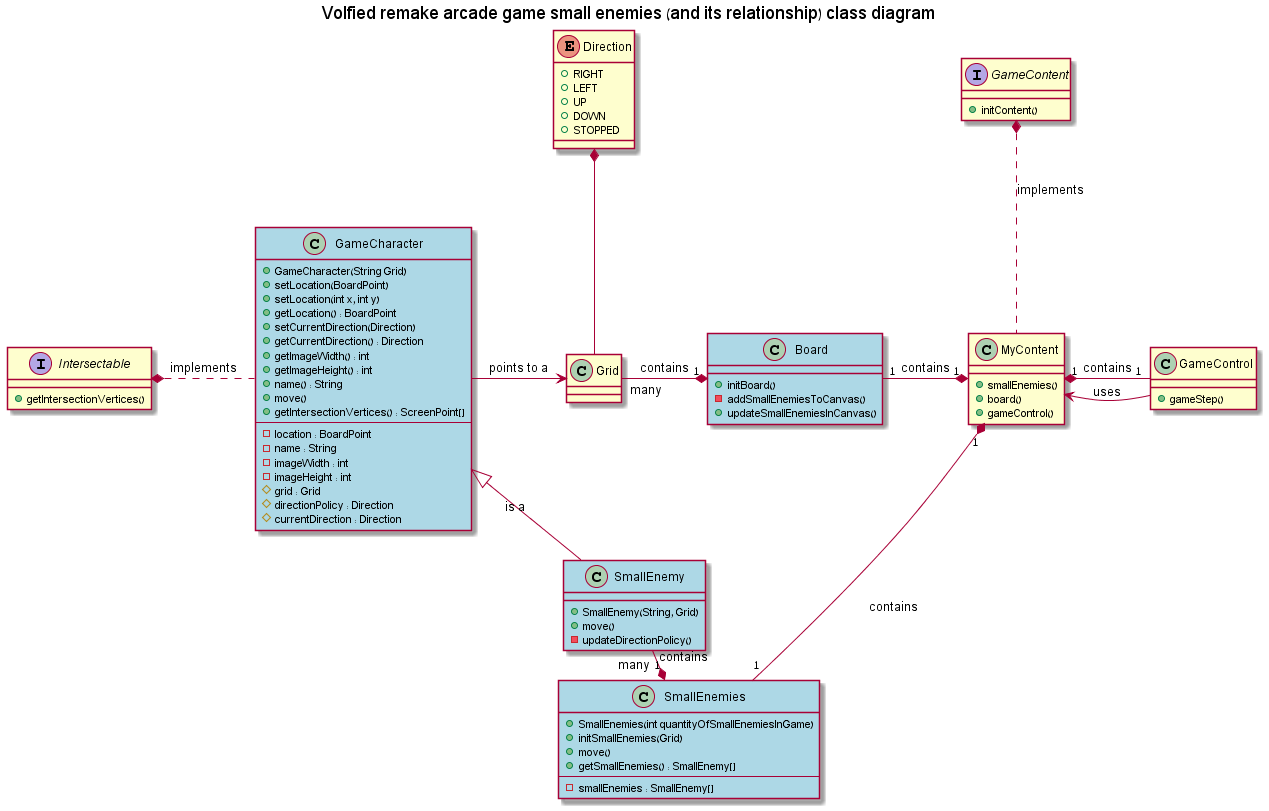
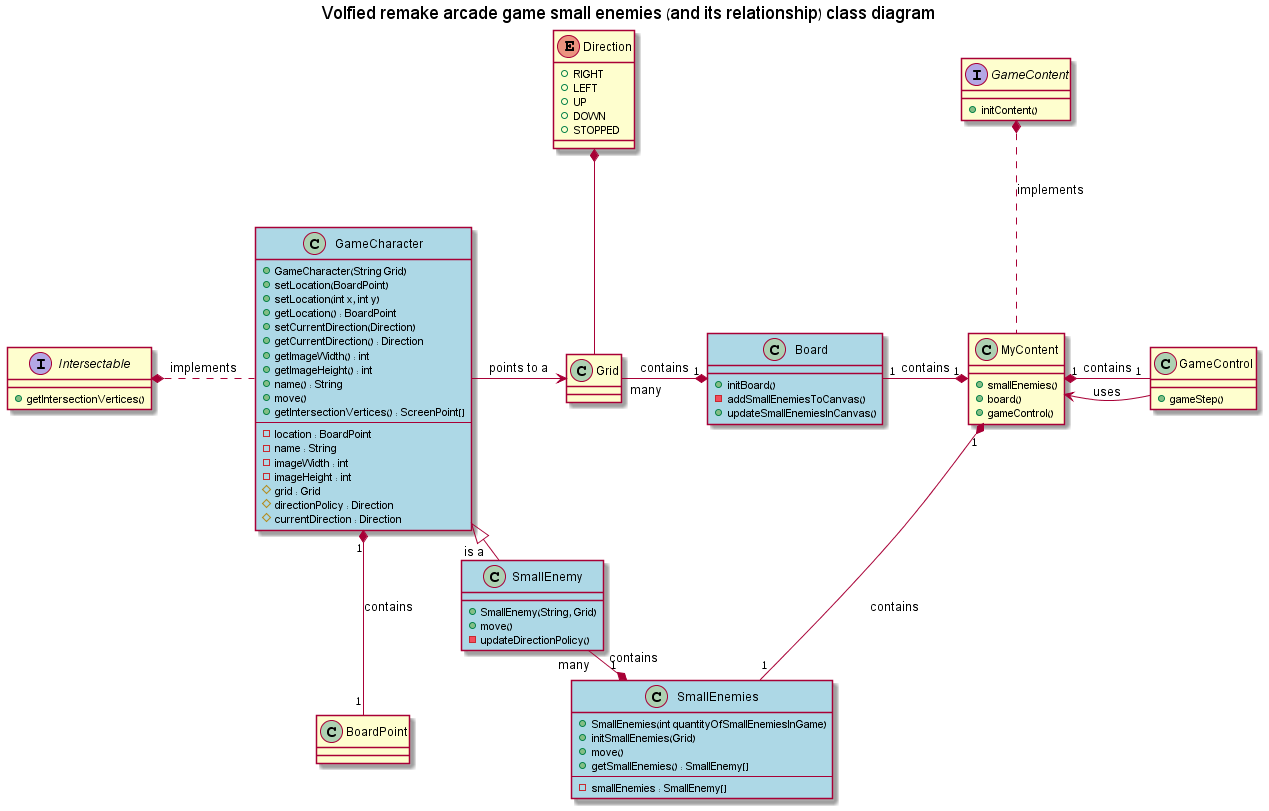
Modification to UMLs

diff --git a/Design/Volfied_SmallEnemiesClassDiagram4Presentation.md b/Design/Volfied_SmallEnemiesClassDiagram4Presentation.md
@@ -34,6 +34,9 @@ enum Direction {
 class Grid {
 }
 
+class BoardPoint {
+}
+
 Direction *-down- Grid
 
 class Board #back:lightblue {
@@ -76,6 +79,7 @@ class GameCharacter #back:lightblue {
 SmallEnemy -left-|> GameCharacter  : is a
 GameCharacter .left.* Intersectable : implements
 GameCharacter -> Grid : points to a
+GameCharacter "1" *-- "1" BoardPoint : contains
 
 class SmallEnemies #back:lightblue {
 	+SmallEnemies(int quantityOfSmallEnemiesInGame)

diff --git a/Design/Volfied_SpacePilotClassDiagram4Presentation.md b/Design/Volfied_SpacePilotClassDiagram4Presentation.md
@@ -34,6 +34,9 @@ enum Direction {
 class Grid {
 }
 
+class BoardPoint {
+}
+
 Direction *-down- Grid
 
 class Board #back:lightblue {
@@ -81,6 +84,7 @@ class GameCharacter #back:lightblue {
 SpacePilot -left-|> GameCharacter  : is a
 GameCharacter .left.* Intersectable : implements
 GameCharacter -> Grid : points to a
+GameCharacter "1" *-- "1" BoardPoint : contains
 
 
 class GameControl {
